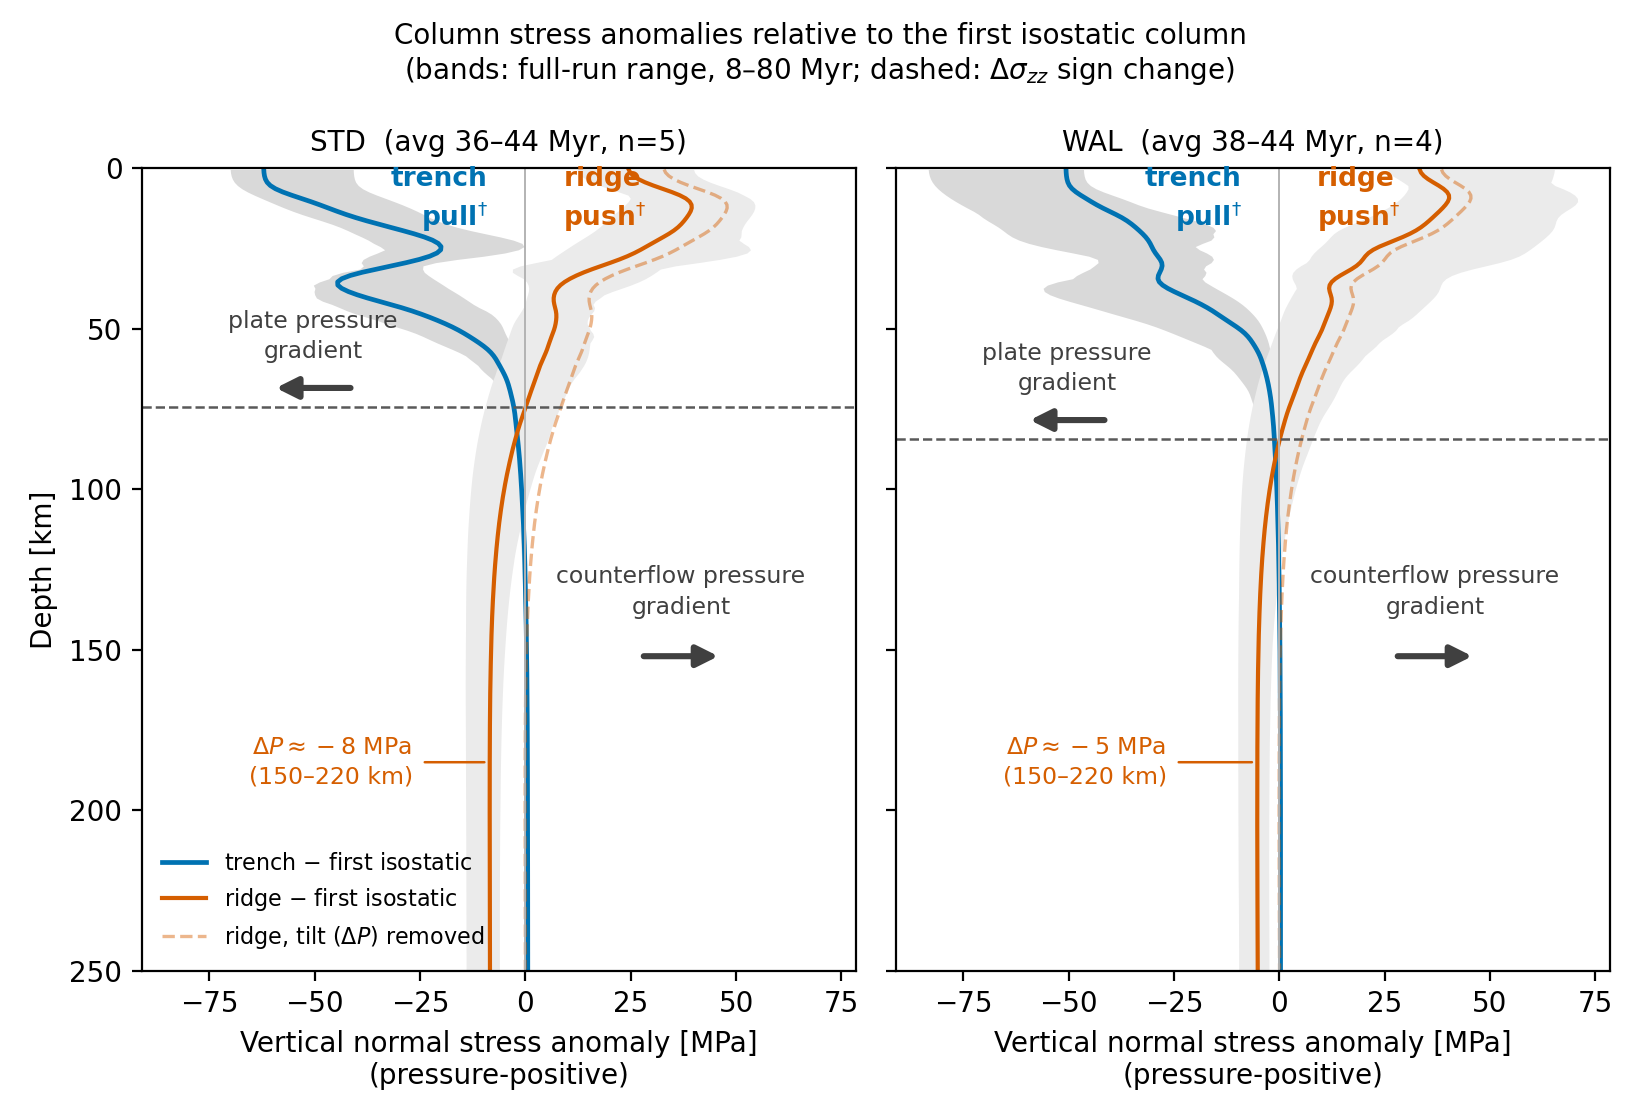
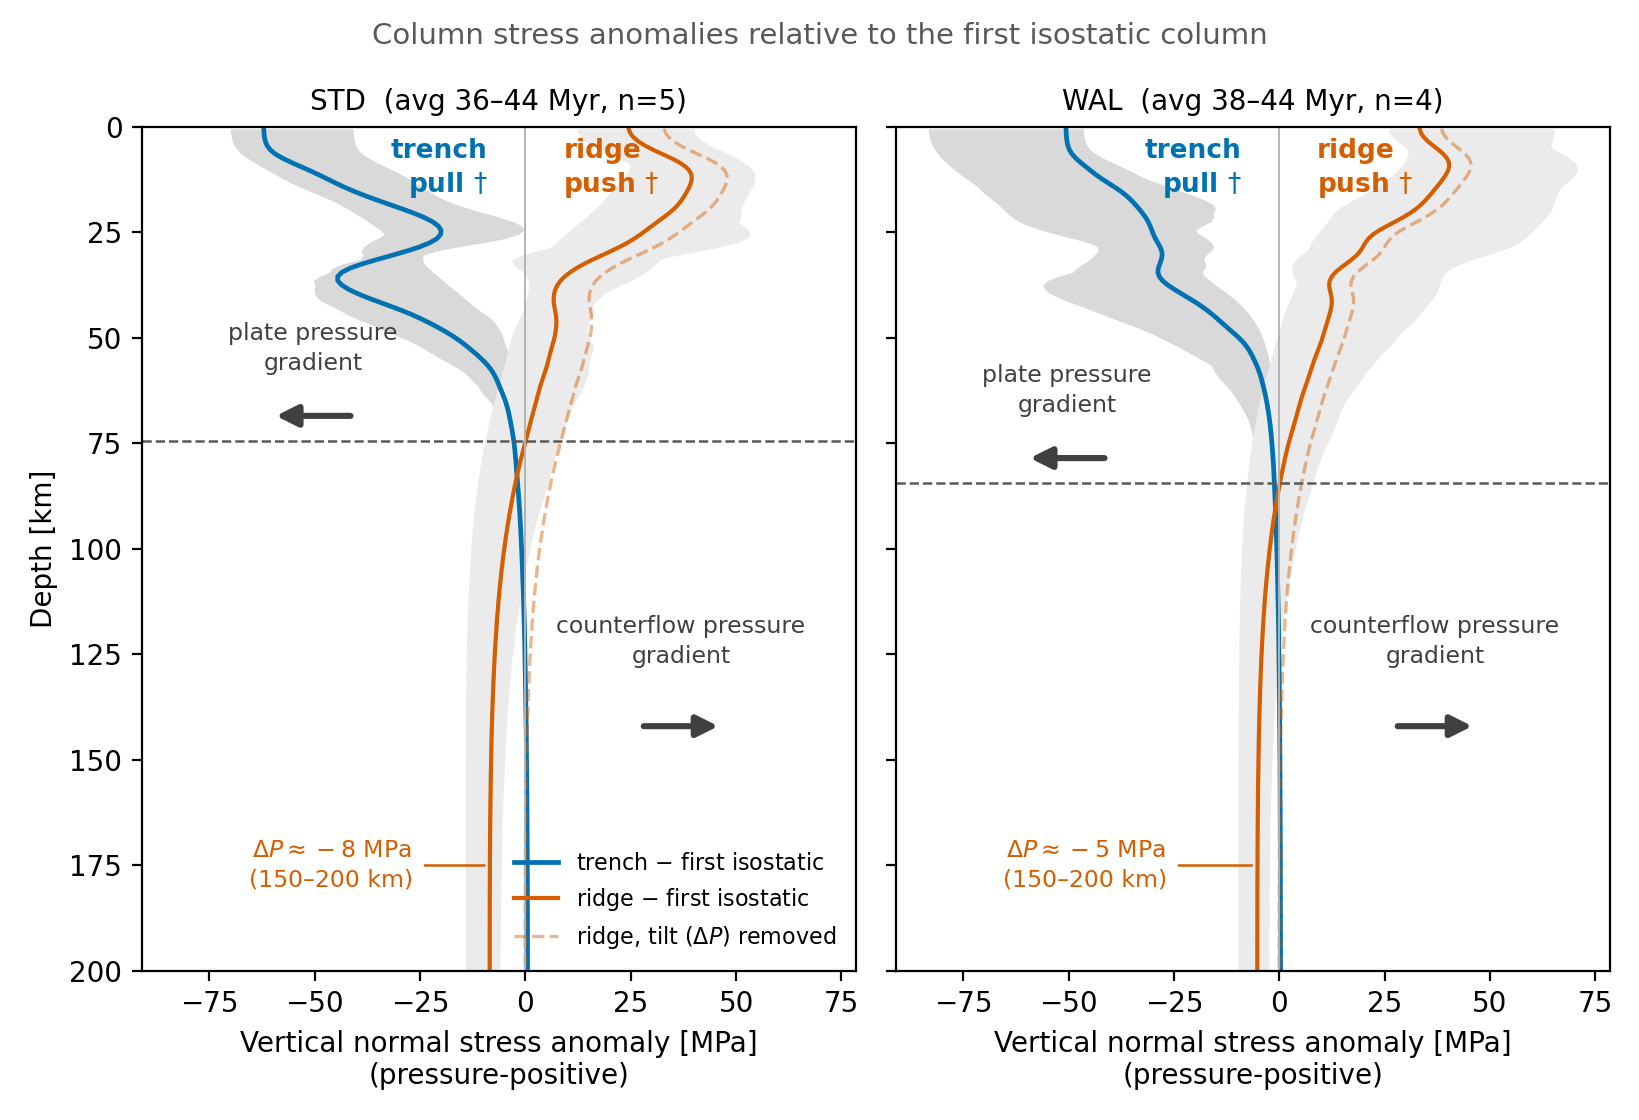
fig_column_anomalies: 200 km depth, Delta P over 150-200, quieter title
Dan, 2026-09-26.

Depth back to 200 km. The curves are flat well before it, so the asymptote
is still established on-plot.

Delta P now sampled over 150-200 km, matching the plotted range, rather
than the cache's 150-220 band. The anomaly has asymptoted by 150 km so the
two differ by 0.02 MPa and round to the same integer — the figure stays
consistent with every force quantity computed from cpc.DP_BAND_KM while
quoting a band the reader can see.

Title reduced to the subject line; the bands, the dashed line and the
averaging windows are caption material.

Dagger set at full size rather than superscript — at 9.5 pt a superscript
marker is ~6 pt and read inconsistently between the two labels. Both were
in fact present (verified by cropping the render); only the size was at
fault. Legend moved to lower right, clear of the Delta P annotation.

diff --git a/scripts/fig_column_anomalies.py b/scripts/fig_column_anomalies.py
@@ -127,10 +127,13 @@ def main():
         # domains are named. A DAGGER not an asterisk -- '*' already carries
         # a specific meaning in this paper (GPE*), and reusing it as a
         # footnote marker invites a misreading.
-        ax.text(-9, 10, 'trench\npull$^{\\dagger}$', ha='right', va='center',
+        # Dagger at FULL SIZE, not superscripted: at 9.5 pt a superscript
+        # marker is ~6 pt and reads inconsistently between the two labels
+        # (Dan saw one and not the other, 2026-09-26).
+        ax.text(-9, 10, 'trench\npull$\\,\\dagger$', ha='right', va='center',
                 fontsize=9.5, color=C_TRENCH, fontweight='bold',
                 linespacing=1.3)
-        ax.text(9, 10, 'ridge\npush$^{\\dagger}$', ha='left', va='center',
+        ax.text(9, 10, 'ridge\npush$\\,\\dagger$', ha='left', va='center',
                 fontsize=9.5, color=C_RIDGE, fontweight='bold',
                 linespacing=1.3)
         # Regime labels: two lines each, set WELL CLEAR of the sign change
@@ -156,7 +159,7 @@ def main():
         # read as locating a transition.
         for xc, z_lab, z_arr, txt, head in (
                 (0.24, z_x - 22, z_x - 6, 'plate pressure\ngradient', -1),
-                (0.755, 132, 152, 'counterflow pressure\ngradient', +1)):
+                (0.755, 122, 142, 'counterflow pressure\ngradient', +1)):
             ax.text(xc, z_lab, txt, transform=ax.get_yaxis_transform(),
                     ha='center', va='center', fontsize=8.5, color='0.25',
                     linespacing=1.4)
@@ -168,24 +171,37 @@ def main():
         # The deep asthenospheric anomaly, labelled with its SIGN, rounded
         # to whole MPa, and stated with the band it is sampled over -- the
         # interval in which it asymptotes (Dan, 2026-09-26).
-        dP_mid = c['dP'][m].mean() / 1e6
-        zlo, zhi = cpc.DP_BAND_KM
+        # Sampled over 150-200 km, matching the plotted depth range, rather
+        # than the cache's 150-220 band (Dan, 2026-09-26). The anomaly has
+        # asymptoted by 150 km, so the two differ by 0.02 MPa and round to
+        # the same integer -- the figure stays consistent with every force
+        # quantity computed from cpc.DP_BAND_KM while quoting a band the
+        # reader can see.
+        zlo, zhi = 150.0, 200.0
+        band = (zkm >= zlo) & (zkm <= zhi)
+        dP_mid = c['p_R'][m].mean(axis=0)[band].mean() / 1e6
         # number inside mathtext so the sign renders as a minus, not a hyphen
         ax.annotate(f'$\\Delta P \\approx {dP_mid:.0f}$ MPa\n'
                     f'({zlo:.0f}–{zhi:.0f} km)',
-                    xy=(dP_mid, 0.5 * (zlo + zhi)), xytext=(-46, 0.5 * (zlo + zhi)),
+                    xy=(dP_mid, 175), xytext=(-46, 175),
                     ha='center', va='center', fontsize=8.5, color=C_RIDGE,
                     linespacing=1.35,
                     arrowprops=dict(arrowstyle='-', color=C_RIDGE, lw=0.9,
                                     shrinkA=2, shrinkB=2))
         ax.set_xlabel('Vertical normal stress anomaly [MPa]\n(pressure-positive)')
     axes[0].set_ylabel('Depth [km]')
-    # 250 km, not 200: the Delta P band runs to 220 km and was half off-plot,
-    # and the counterflow label needs depth clear of the sign change.
-    axes[0].set_ylim(250, 0)
-    axes[0].legend(fontsize=8, frameon=False, loc='lower left')
-    fig.suptitle('Column stress anomalies relative to the first isostatic column\n'
-                 '(bands: full-run range, 8–80 Myr; dashed: $\\Delta\\sigma_{zz}$ sign change)', fontsize=10)
+    # 200 km (Dan, 2026-09-26). The curves are flat well before it, so the
+    # asymptote is established on-plot; the Delta P band runs to 220 km and
+    # its upper part is off-plot, which is why the annotation states the
+    # band explicitly rather than relying on the axis to show it.
+    axes[0].set_ylim(200, 0)
+    # lower RIGHT: the deep left side now carries the Delta P annotation,
+    # and below ~150 km the right side is empty in both models.
+    axes[0].legend(fontsize=8, frameon=False, loc='lower right')
+    # Title names the subject only; the bands, the dashed line and the
+    # averaging windows are caption material (Dan, 2026-09-26).
+    fig.suptitle('Column stress anomalies relative to the first isostatic column',
+                 fontsize=10.5, color='0.35')
     fig.tight_layout()
     out = os.path.join(os.path.dirname(os.path.dirname(os.path.abspath(__file__))),
                        'figures', 'fig_column_anomalies.png')
